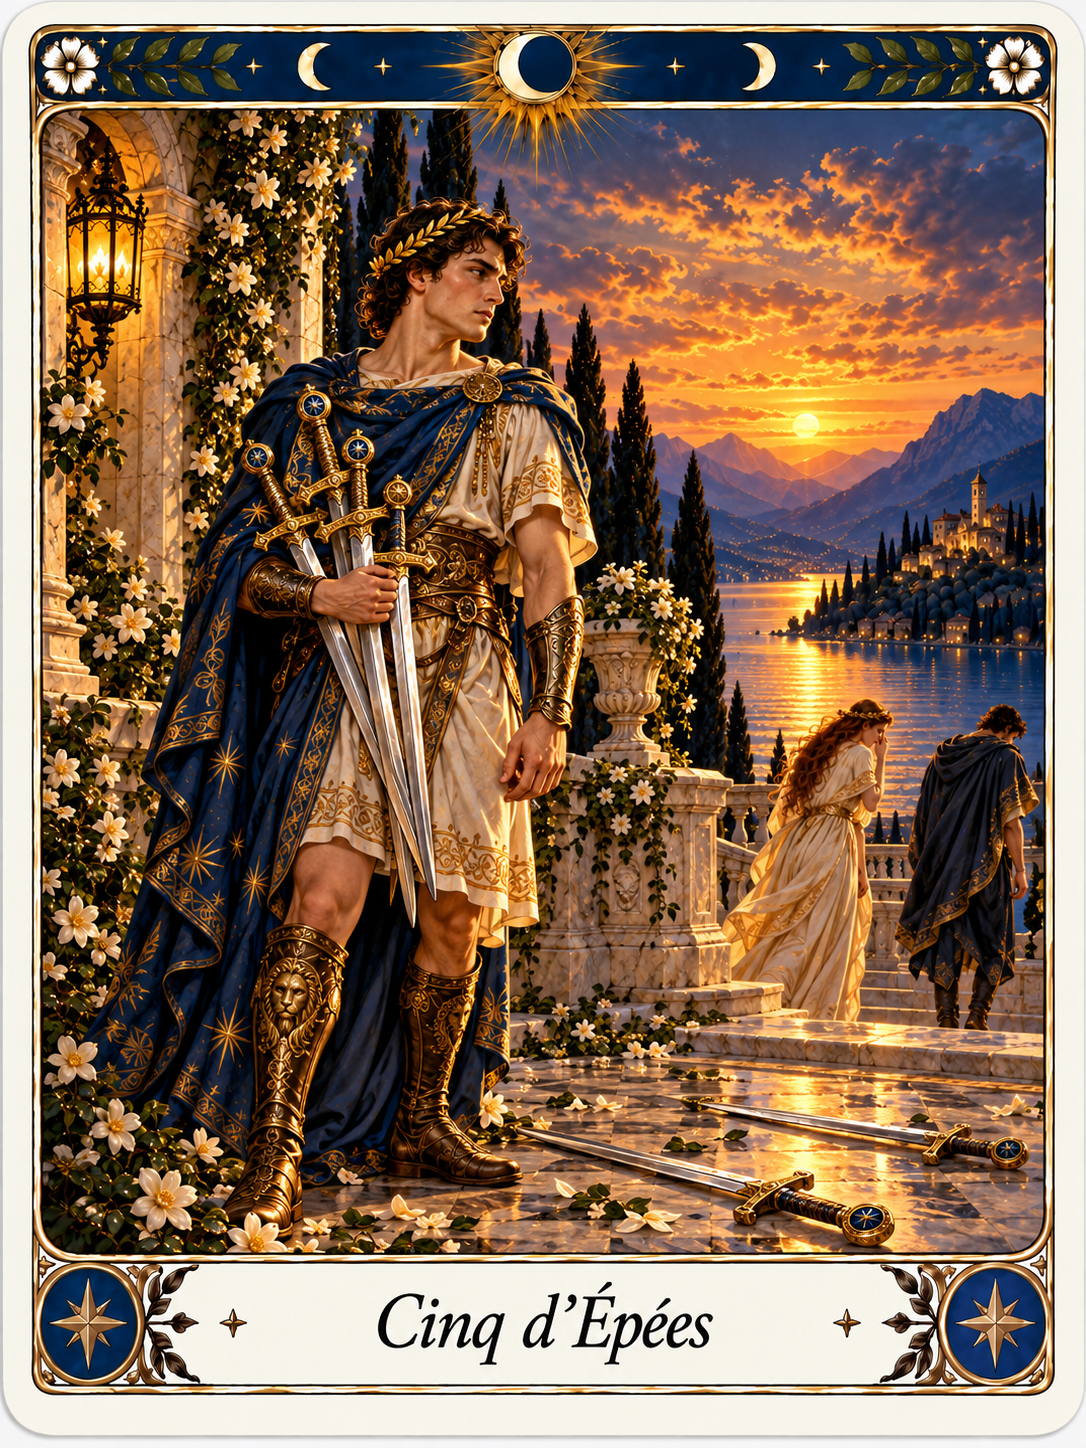
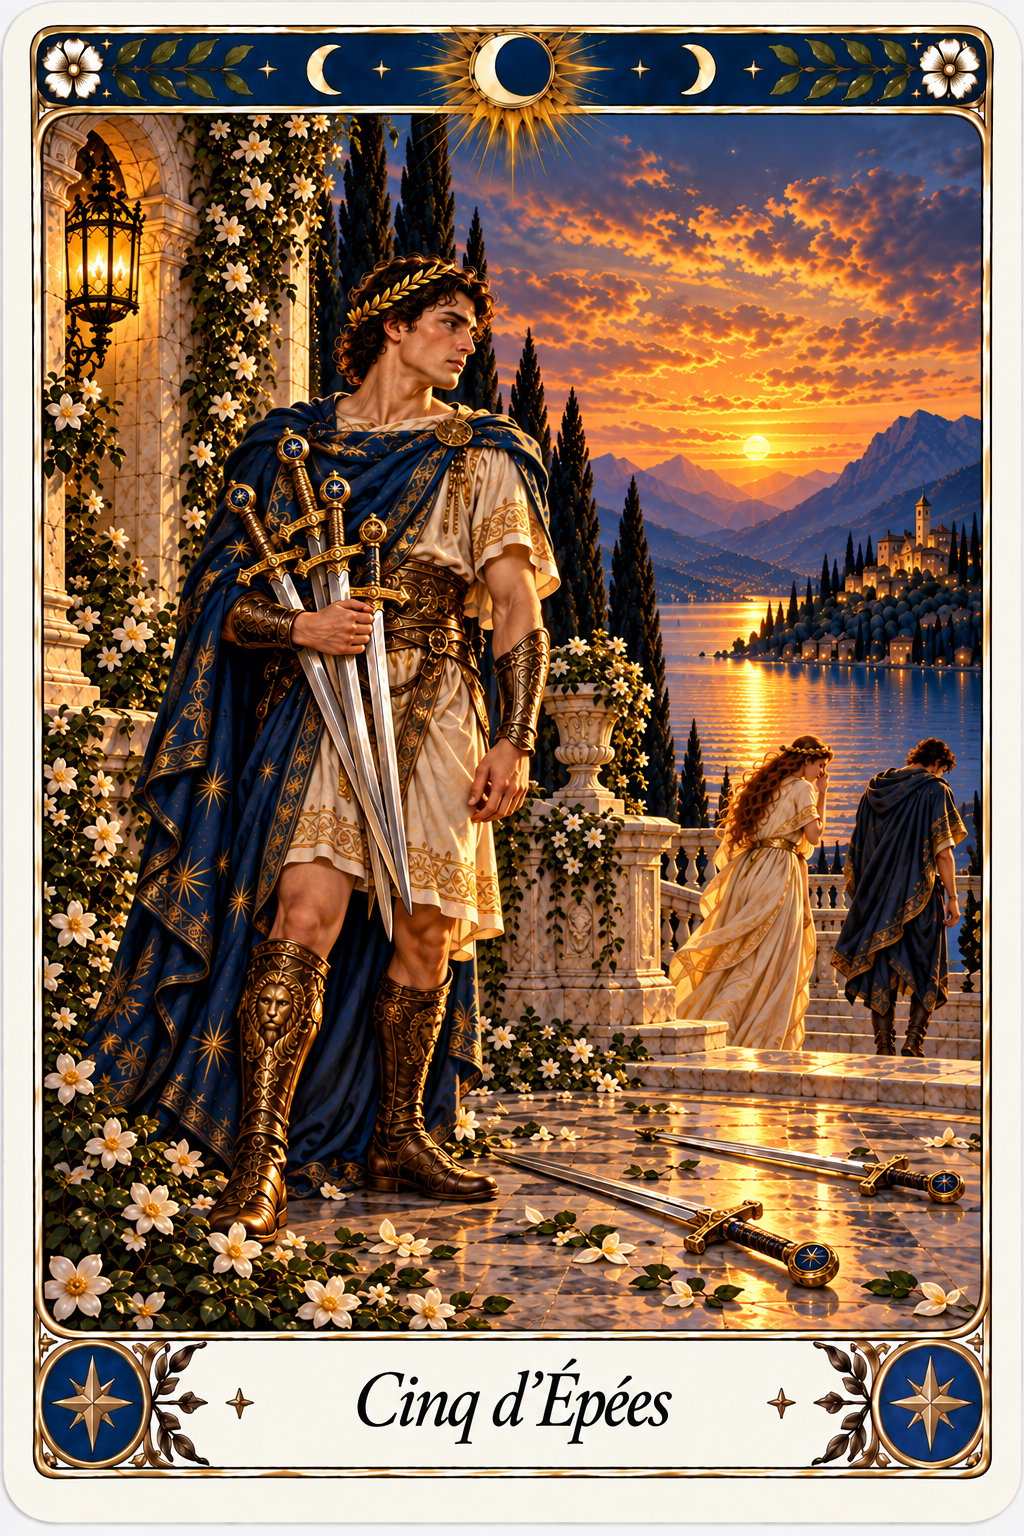
Align five sword card frames with the tarot deck

diff --git a/index.html b/index.html
@@ -1495,7 +1495,7 @@ try{const saved=new URLSearchParams(location.search).get('lang')||localStorage.g
 applyLanguage();
 </script>
 <script>if('serviceWorker' in navigator){
-const CRISTARIVA_PWA_VERSION='2026.09.28-source-hd-r2';
+const CRISTARIVA_PWA_VERSION='2026.09.28-swords-cards-r3';
 let cristarivaReloading=false;
 const cristarivaRefreshOnce=()=>{
  if(cristarivaReloading)return;
@@ -1509,7 +1509,7 @@ navigator.serviceWorker.addEventListener('message',event=>{
  if(event.data&&event.data.type==='CRISTARIVA_UPDATED')cristarivaRefreshOnce();
 });
 const cristarivaCheckUpdate=()=>navigator.serviceWorker.register(
- './service-worker.js?v=20260928-source-hd-r2',
+ './service-worker.js?v=20260928-swords-cards-r3',
  {scope:'./',updateViaCache:'none'}
 ).then(reg=>{
  if(reg.waiting)reg.waiting.postMessage('SKIP_WAITING');
@@ -1525,7 +1525,7 @@ const cristarivaCheckUpdate=()=>navigator.serviceWorker.register(
 window.addEventListener('load',cristarivaCheckUpdate);
 window.addEventListener('pageshow',cristarivaCheckUpdate);
 document.addEventListener('visibilitychange',()=>{if(document.visibilityState==='visible')cristarivaCheckUpdate();});
-}</script><script src="./interpretation-engine-v2.js?v=3.0.1"></script><script src="./natal-influences-v3.1.js?v=3.1"></script><script src="./period-overview-v3.2.js?v=3.2"></script><script src="./integrated-period-reading-v3.3.js?v=3.5.1"></script><script src="./natal-profile-v3.4.js?v=3.4.1"></script><script src="./natal-special-plain-v3.4.2.js?v=3.4.2"></script><script src="./synthesis-cleanup-v3.5.2.js?v=3.6.3"></script><script src="./synthesis-french-fix-v3.6.3.js?v=3.6.9"></script><script src="./story-conclusion-v3.6.js?v=3.6.2"></script><script src="./validated-card-titles-v3.6.3.js?v=20260922-tarot32"></script><script src="./story-narrative-v4.js?v=5.0"></script><script src="./story-fluid-v5.1.js?v=5.31"></script><script src="./question-context-story-v5.2.js?v=5.2.2"></script><script src="./question-intent-story-v5.3.js?v=5.6"></script><script src="./question-project-story-v5.5.js?v=5.21"></script><script src="./universal-fluid-story-v6.3.js?v=6.6"></script><script src="./period-windows-v3.7.js?v=3.7"></script><script src="./period-window-limit-v3.8.js?v=3.9.1"></script><script src="./peak-label-fix-v3.9.2.js?v=3.9.4"></script><script src="./trigger-date-guard-v3.9.7.js?v=3.9.7"></script><script src="./unique-peak-dates-v3.9.8.js?v=4.0"></script><script src="./oracle-selection.js?v=20260926-story-fluid66"></script><script src="./relation-astrology.js?v=20260926-cross-summary"></script><script src="./tarot-title-image-hotfix.js?v=20260928-source-hd-r2"></script><script>
+}</script><script src="./interpretation-engine-v2.js?v=3.0.1"></script><script src="./natal-influences-v3.1.js?v=3.1"></script><script src="./period-overview-v3.2.js?v=3.2"></script><script src="./integrated-period-reading-v3.3.js?v=3.5.1"></script><script src="./natal-profile-v3.4.js?v=3.4.1"></script><script src="./natal-special-plain-v3.4.2.js?v=3.4.2"></script><script src="./synthesis-cleanup-v3.5.2.js?v=3.6.3"></script><script src="./synthesis-french-fix-v3.6.3.js?v=3.6.9"></script><script src="./story-conclusion-v3.6.js?v=3.6.2"></script><script src="./validated-card-titles-v3.6.3.js?v=20260922-tarot32"></script><script src="./story-narrative-v4.js?v=5.0"></script><script src="./story-fluid-v5.1.js?v=5.31"></script><script src="./question-context-story-v5.2.js?v=5.2.2"></script><script src="./question-intent-story-v5.3.js?v=5.6"></script><script src="./question-project-story-v5.5.js?v=5.21"></script><script src="./universal-fluid-story-v6.3.js?v=6.6"></script><script src="./period-windows-v3.7.js?v=3.7"></script><script src="./period-window-limit-v3.8.js?v=3.9.1"></script><script src="./peak-label-fix-v3.9.2.js?v=3.9.4"></script><script src="./trigger-date-guard-v3.9.7.js?v=3.9.7"></script><script src="./unique-peak-dates-v3.9.8.js?v=4.0"></script><script src="./oracle-selection.js?v=20260926-story-fluid66"></script><script src="./relation-astrology.js?v=20260926-cross-summary"></script><script src="./tarot-title-image-hotfix.js?v=20260928-swords-cards-r3"></script><script>
 /* Registre évolutif des jeux : modifier/ajouter ici un nom ou un nombre suffit pour la présentation. */
 window.CRISTARIVA_GAMES=window.CRISTARIVA_GAMES||[
 {id:'cristariva',nameFr:'Oracle CRISTARIVA',nameEn:'CRISTARIVA Oracle',count:130},

diff --git a/service-worker.js b/service-worker.js
@@ -1,8 +1,8 @@
 /* CRISTARIVA — service worker v30 — récit professionnel développé.
    Force 22 arcanes majeurs + 56 arcanes mineurs HD sur PC et Android
    et recharge la planche validée complète des arcanes mineurs. */
-const CACHE_NAME='cristariva-v38-20260928-source-hd-r2';
-const APP_VERSION='2026.09.28-source-hd-r2';
+const CACHE_NAME='cristariva-v39-20260928-swords-cards-r3';
+const APP_VERSION='2026.09.28-swords-cards-r3';
 const SHELL=[
   './',
   './index.html',
@@ -22,7 +22,7 @@ const SHELL=[
   './oracle-amour-compat.js?v=20260923-love-story6',
   './tarot-divinatoire-data.js?v=20260924-tarot78-base-r9',
   './tarot-divinatoire-integration.js?v=20260924-tarot78-r4-compat',
-  './tarot-title-image-hotfix.js?v=20260928-source-hd-r2',
+  './tarot-title-image-hotfix.js?v=20260928-swords-cards-r3',
   './tarot-divinatoire-integration-v78.js?v=20260924-tarot78-r9',
   './tarot-minor-sprite-loader.js?v=20260926-minor-hd-r1',
   './tarot-minors-data-batons.js?v=20260924-tarot78-r9',

diff --git a/tarot-minor-sprite-loader.js b/tarot-minor-sprite-loader.js
@@ -63,10 +63,10 @@ const FILES={
 };
 window.CR_TAROT_MINOR_IMAGES={};
 for(const [id,file] of Object.entries(FILES)){
-  window.CR_TAROT_MINOR_IMAGES[id]=BASE+file+'?v=20260928-source-hd-r2';
+  window.CR_TAROT_MINOR_IMAGES[id]=BASE+file+'?v=20260928-swords-cards-r3';
 }
 const count=Object.keys(window.CR_TAROT_MINOR_IMAGES).filter(k=>Number(k)>=23&&Number(k)<=78).length;
 if(count!==56)throw new Error('CRISTARIVA Tarot : '+count+'/56 illustrations mineures HD référencées.');
-window.CR_TAROT_MINOR_SPRITE_INFO={count,source:'individual-hd-png',base:BASE,version:'2026.09.28-source-hd-r2'};
+window.CR_TAROT_MINOR_SPRITE_INFO={count,source:'individual-hd-png',base:BASE,version:'2026.09.28-swords-cards-r3'};
 window.CR_TAROT_MINOR_IMAGES_READY=Promise.resolve(window.CR_TAROT_MINOR_IMAGES);
 })();

diff --git a/tarot-title-image-hotfix.js b/tarot-title-image-hotfix.js
@@ -2,7 +2,7 @@
 (function(){
   'use strict';
 
-  const VERSION='20260928-source-hd-r2';
+  const VERSION='20260928-swords-cards-r3';
 
   function appendScript(src){
     return new Promise((resolve,reject)=>{
@@ -54,7 +54,7 @@
       await appendScript('./tarot-divinatoire-integration-v78.js?v='+VERSION);
       await appendScript('./tarot-story-fluid-v6.2.js?v=6.6-'+VERSION);
 
-      window.CR_TAROT_HOTFIX_VERSION='2026.09.28-source-hd-r2';
+      window.CR_TAROT_HOTFIX_VERSION='2026.09.28-swords-cards-r3';
       document.documentElement.dataset.cristarivaTarot='78';
       document.documentElement.dataset.cristarivaTarotImages='56';
       document.documentElement.dataset.cristarivaTarotStory='6.2';
